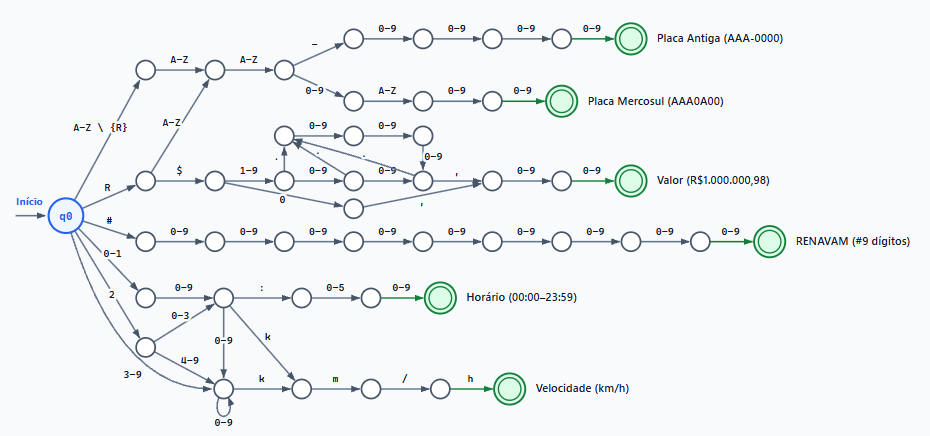
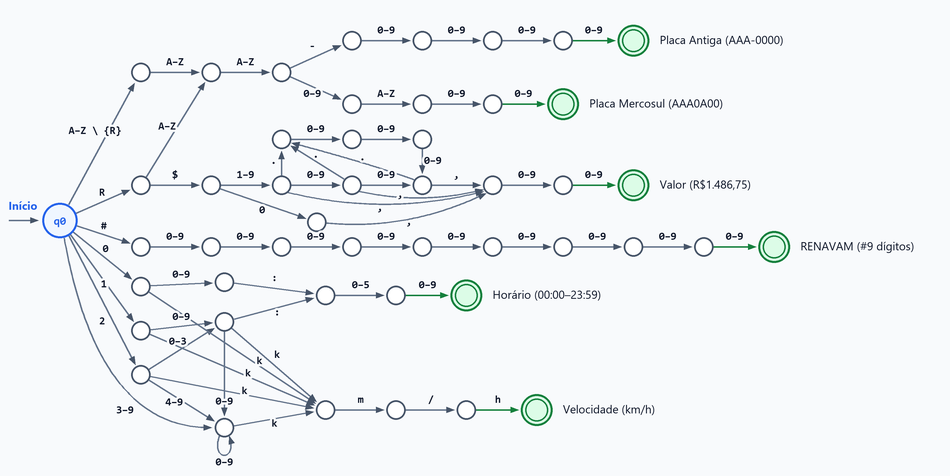
atualiza transições do autômato no AFD e ajusta estados no afdXml.js

Changed region(s): [[0.0, 0.0298, 0.9978, 0.9839]]

diff --git a/src/lexico/afdXml.js b/src/lexico/afdXml.js
@@ -8,7 +8,7 @@ const ESTADOS_DSL = [
     'q_PM1', 'q_PM2', 'q_PM3', 'q_PM_FIM',
     'q_REG0', 'q_REG1', 'q_REG2', 'q_REG3', 'q_REG4', 'q_REG5', 'q_REG6', 'q_REG7', 'q_REG8', 'q_REG_FIM',
     'q_RS', 'q_VAL_Z', 'q_VI1', 'q_VI2', 'q_VI3', 'q_VM0', 'q_VM1', 'q_VM2', 'q_VAL_P', 'q_VAL_D1', 'q_VAL_FIM',
-    'q_D01', 'q_D2', 'q_HH', 'q_H_DP', 'q_H_M1', 'q_HORA_FIM',
+    'q_D0', 'q_H0', 'q_D1', 'q_D2', 'q_HH', 'q_H_DP', 'q_H_M1', 'q_HORA_FIM',
     'q_VEL_D', 'q_VK', 'q_VKM', 'q_VBAR', 'q_VEL_FIM',
     'F_PLACA_ANT', 'F_PLACA_MER', 'F_REGISTRO', 'F_VELOCIDADE', 'F_VALOR', 'F_HORARIO'
 ];
@@ -88,7 +88,8 @@ function construirTransicoesDsl() {
     adicionarTransicao(t, '1', 'R', 'q_R');
     adicionarListaTransicoes(t, '1', LETRAS_MAIUSCULAS.filter((l) => l !== 'R'), 'q_L1');
     adicionarTransicao(t, '1', '#', 'q_REG0');
-    adicionarListaTransicoes(t, '1', ['0', '1'], 'q_D01');
+    adicionarTransicao(t, '1', '0', 'q_D0');
+    adicionarTransicao(t, '1', '1', 'q_D1');
     adicionarTransicao(t, '1', '2', 'q_D2');
     adicionarListaTransicoes(t, '1', ['3', '4', '5', '6', '7', '8', '9'], 'q_VEL_D');
 
@@ -147,8 +148,12 @@ function construirTransicoesDsl() {
     adicionarDelimitadores(t, 'q_VAL_FIM', 'F_VALOR');
 
     // Horario velocidade
-    adicionarListaTransicoes(t, 'q_D01', DIGITOS, 'q_HH');
-    adicionarTransicao(t, 'q_D01', 'k', 'q_VK');
+    adicionarListaTransicoes(t, 'q_D0', DIGITOS, 'q_H0');
+    adicionarTransicao(t, 'q_D0', 'k', 'q_VK');
+    adicionarTransicao(t, 'q_H0', ':', 'q_H_DP');
+
+    adicionarListaTransicoes(t, 'q_D1', DIGITOS, 'q_HH');
+    adicionarTransicao(t, 'q_D1', 'k', 'q_VK');
 
     adicionarListaTransicoes(t, 'q_D2', ['0', '1', '2', '3'], 'q_HH');
     adicionarListaTransicoes(t, 'q_D2', ['4', '5', '6', '7', '8', '9'], 'q_VEL_D');
